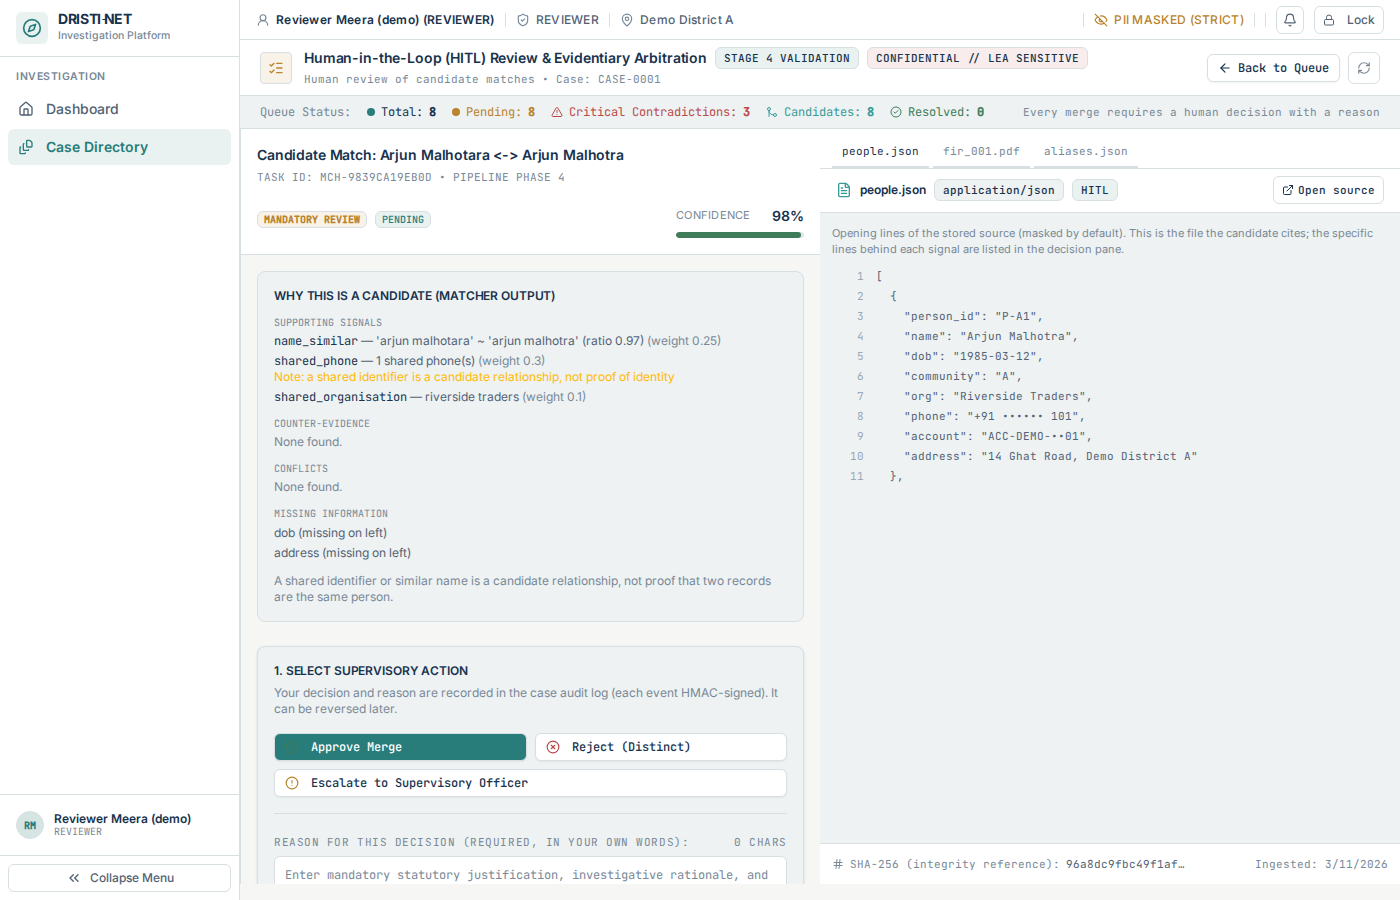
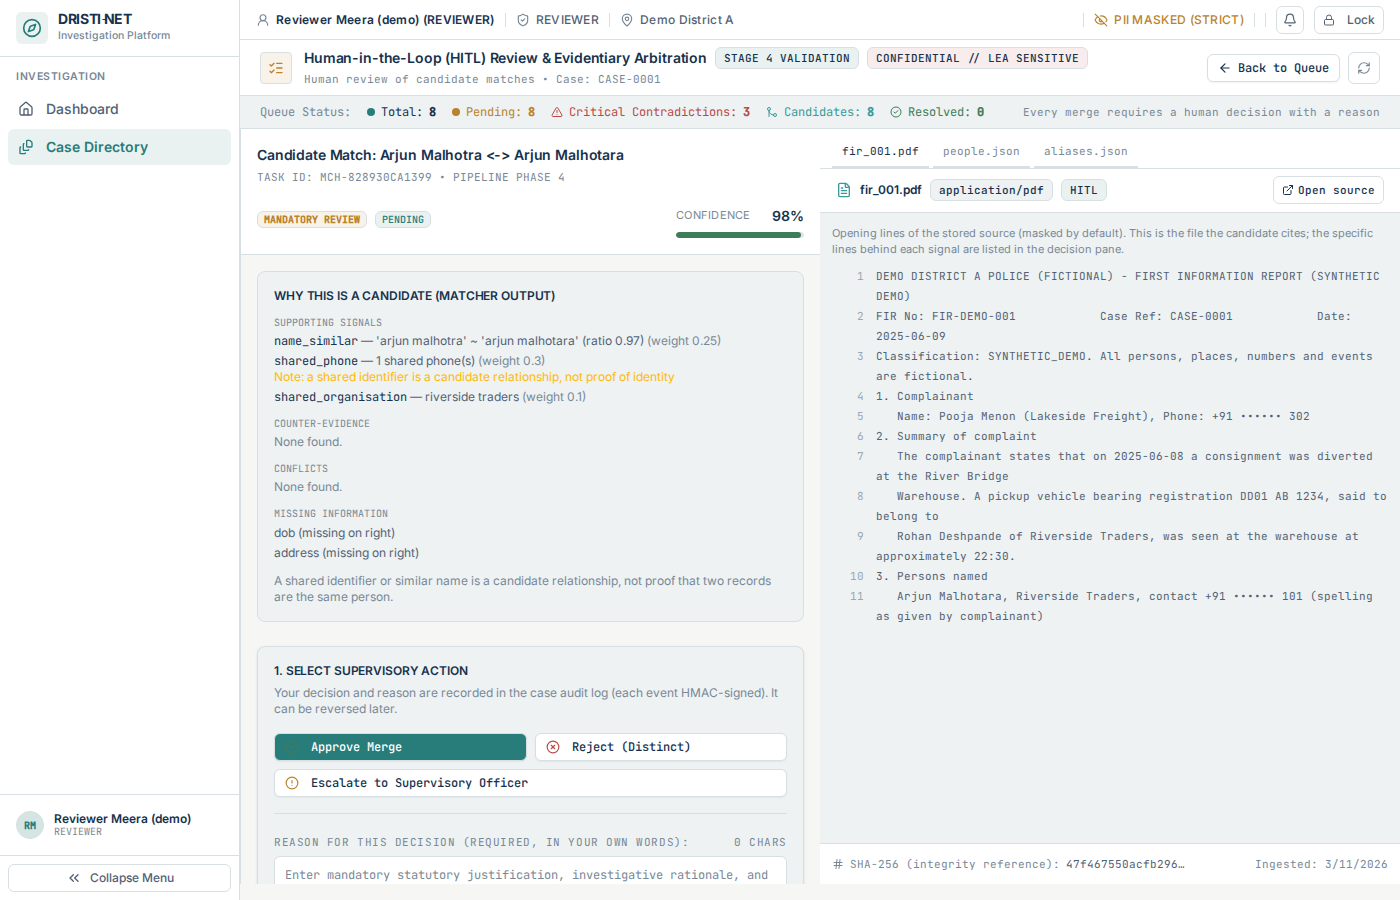
fix: third pass — static analysis, internals leaks, frontend truthfulness, ops guards
- First Python static analysis (ruff, bandit): unused imports/dead code removed;
  a test that asserted nothing now asserts (DEF-073); `assert False` -> raise.
- /health no longer returns the storage path, /ready no longer echoes driver
  errors, job errors no longer carry server tracebacks (DEF-074).
- Compose: ClamAV healthcheck requires PONG, api healthcheck on /ready,
  worker waits for ClamAV, Besu RPC limited to ETH/NET/WEB3; `make clean`
  needs CONFIRM=1, `make test-stack` needs STACK_IS_DISPOSABLE=1 (DEF-075).
- Frontend: upload/login messages report the real outcome (DEF-076);
  fabricated dashboard "Contradictions: 0" and CASE-0001 fallbacks removed,
  analysis page uses fields the API sends (DEF-077); revealed value shown,
  case/provenance load errors visible (DEF-078); timeline shows times as
  recorded and opens the source at the claim's locator (DEF-079).

Verified: make test 126 passed / 5 skipped; typecheck 0; e2e 6/6.

diff --git a/apps/web/src/features/cases/timeline/timeline-event-row.tsx b/apps/web/src/features/cases/timeline/timeline-event-row.tsx
@@ -1,3 +1,5 @@
+import { getClaimById } from "@/services/api/claimsApi";
+import { recordedDateKey, recordedTime } from "@/lib/utils";
 import { useNavigate } from "react-router-dom";
 import { Clock, FileText, Waypoints, Tag } from "lucide-react";
 import { Button } from "@/components/ui/button";
@@ -26,9 +28,14 @@ export function TimelineEventRow({
   const { selectNode } = useGraphStore();
 
   const handleViewSource = async () => {
-    if (event.evidence_id) {
-      await openProvenanceForRecord(event.evidence_id);
-    }
+    if (!event.evidence_id) return;
+    // DEF-079: open at the claim's exact source location (it used to open line 1 of the file).
+    let locator: any = undefined;
+    try {
+      const claim = event.claim_id ? (await getClaimById(event.claim_id)).data : null;
+      locator = claim?.provenance?.[0]?.locator || undefined;
+    } catch { /* fall back to opening the file without a locator */ }
+    await openProvenanceForRecord(event.evidence_id, locator);
   };
 
   const handleViewInGraph = () => {
@@ -66,10 +73,10 @@ export function TimelineEventRow({
             <div className="flex items-center gap-2 flex-wrap">
               <span
                 className="flex items-center gap-1 font-mono text-micro font-semibold text-text-muted bg-surface-2/80 px-2 py-0.5 rounded border border-border-subtle"
-                title={event.time ? new Date(event.time).toLocaleDateString("en-IN") : "Unknown Date"}
+                title={event.time ? `${event.time} (as recorded in the source; no time zone)` : "Unknown Date"}
               >
                 <Clock className="h-3 w-3 text-text-disabled" />
-                {event.time ? new Date(event.time).toLocaleTimeString("en-IN", {hour: "2-digit", minute: "2-digit"}) : "Undated"}
+                {recordedTime(event.time) ?? (event.time ? recordedDateKey(event.time) : "Undated")}
               </span>
               <span className="text-micro font-medium border px-1.5 rounded bg-surface-3">
                 {event.rel_type}
@@ -91,7 +98,7 @@ export function TimelineEventRow({
                 size="sm"
                 className="h-7 px-2.5 text-xs font-semibold gap-1 text-teal-primary border-teal-primary/30 hover:bg-teal-primary/10 shadow-2xs"
                 onClick={handleViewSource}
-                title="View original evidence document with highlighted proof"
+                title="Open the source document at the line this event was extracted from"
               >
                 <FileText className="h-3.5 w-3.5 text-teal-primary" />
                 <span>View Evidence</span>

diff --git a/apps/web/src/features/cases/evidence/case-evidence-view.tsx b/apps/web/src/features/cases/evidence/case-evidence-view.tsx
@@ -27,7 +27,7 @@ export function CaseEvidenceView() {
   } = useEvidenceStore();
 
   const [selectedFile, setSelectedFile] = useState<File | null>(null);
-  const [uploadMsg, setUploadMsg] = useState("");
+  const [uploadMsg, setUploadMsg] = useState<{ text: string; ok: boolean } | null>(null);
 
   const caseId = routeCaseId;
 
@@ -103,19 +103,20 @@ export function CaseEvidenceView() {
                 headers: tok ? { Authorization: `Bearer ${tok}` } : {},
                 body: fd
               });
+              // DEF-076: report what the server actually said. Previously every success was shown in red, a 201 whose
+              // scan result was INFECTED read "Uploaded", and the "quarantine" branch never matched any real 4xx text.
+              let body: any = null;
+              try { body = await res.json(); } catch { /* non-JSON body */ }
               if (!res.ok) {
-                 const text = await res.text();
-                 if (text.includes("quarantine") || text.includes("virus") || text.includes("malware")) {
-                    setUploadMsg("File is in quarantine");
-                 } else {
-                    setUploadMsg("Upload failed");
-                 }
+                 setUploadMsg({ ok: false, text: `Upload rejected (${res.status}): ${typeof body?.detail === "string" ? body.detail : res.statusText}` });
               } else {
-                 setUploadMsg("Uploaded");
+                 const status: string = body?.status || "UNKNOWN";
+                 const blocked = ["INFECTED", "SCAN_FAILED", "SCAN_TIMEOUT", "SCANNER_UNAVAILABLE", "QUARANTINED", "INTEGRITY_MISMATCH", "EXTRACTION_FAILED"].includes(status);
+                 setUploadMsg({ ok: !blocked, text: blocked ? `Stored, but not processed: status ${status}${body?.scan_result ? ` (scan: ${body.scan_result})` : ""}` : `Uploaded: status ${status}` });
                  loadEvidence(caseId, entityScope);
               }
             }}>Upload</Button>
-            {uploadMsg && <span className="text-critical-red font-bold text-xs">{uploadMsg}</span>}
+            {uploadMsg && <span role="status" className={`font-bold text-xs ${uploadMsg.ok ? "text-emerald-400" : "text-critical-red"}`}>{uploadMsg.text}</span>}
           </div>
         </div>
 

diff --git a/apps/web/src/features/cases/case-workspace-page.tsx b/apps/web/src/features/cases/case-workspace-page.tsx
@@ -50,7 +50,7 @@ function CasePlaceholderView({ tabId, caseId, onBackToOverview }: { tabId: strin
 }
 
 export function CaseWorkspacePage() {
-  const {  caseId = "CASE-0001" } = useParams();
+  const {  caseId = "" } = useParams();
   const [searchParams, setSearchParams] = useSearchParams();
   const location = useLocation();
   const navigate = useNavigate();
@@ -67,20 +67,25 @@ export function CaseWorkspacePage() {
 
   const [caseData, setCaseData] = useState<CaseDetail | null>(null);
   const [isLoading, setIsLoading] = useState(false);
+  const [loadError, setLoadError] = useState<string | null>(null);
   const {  caseInfoPanelExpanded, toggleCaseInfoPanel } = useUIStore();
 
   useEffect(() => {
     let isMounted = true;
     async function load() {
       if (!caseId) return;
+      // DEF-078: drop the previous case before loading, and keep the failure reason (a 403 used to leave the old
+      // case's header and data on screen, or show a bare "Failed to load case data").
+      setCaseData(null);
+      setLoadError(null);
       setIsLoading(true);
       try {
         const res = await getCaseDetails(caseId);
         if (isMounted && res.data) {
           setCaseData(res.data);
         }
-      } catch {
-        // Error loading case
+      } catch (e: any) {
+        if (isMounted) setLoadError(e?.message || "error");
       } finally {
         if (isMounted) setIsLoading(false);
       }
@@ -108,7 +113,7 @@ export function CaseWorkspacePage() {
   };
 
   if (isLoading) { return <div className="flex h-screen items-center justify-center">Loading Workspace...</div>; }
-  if (!caseData) { return <div className="p-8 text-center text-text-muted">Failed to load case data.</div>; }
+  if (!caseData) { return <div role="alert" className="p-8 text-center text-text-muted">Could not load case {caseId}{loadError ? `: ${loadError}` : "."}</div>; }
 
   return (
     <>

diff --git a/apps/web/src/features/cases/analysis/case-analysis-page.tsx b/apps/web/src/features/cases/analysis/case-analysis-page.tsx
@@ -94,7 +94,7 @@ export function CaseAnalysisPage() {
                       <span className="text-xs text-text-primary truncate">{n.label}</span>
                     </div>
                     <div className="flex items-center gap-3 text-xs text-text-muted shrink-0">
-                      <span>degree: <strong className="text-text-primary">{n.degree}</strong></span>
+                      <span>communities touched: <strong className="text-text-primary">{Array.isArray(n.touches_communities) ? n.touches_communities.length : (n.touches_communities ?? "—")}</strong></span>
                       <span>betweenness: <strong className="text-text-primary">{(n.betweenness || 0).toFixed(3)}</strong></span>
                     </div>
                   </div>
@@ -117,7 +117,7 @@ export function CaseAnalysisPage() {
                   <div key={idx} className="rounded-md bg-surface-2 border border-border-subtle p-3 space-y-2">
                     <div className="flex items-center justify-between">
                       <span className="text-xs font-semibold text-text-primary">Community {idx + 1}</span>
-                      <span className="text-[10px] text-text-muted">{(comm.members || []).length} members · stability: {(comm.stability ?? 0).toFixed(2)}</span>
+                      <span className="text-[10px] text-text-muted">{comm.size ?? (comm.members || []).length} members · stability: {typeof comm.stability === "number" ? comm.stability.toFixed(2) : "n/a"}</span>
                     </div>
                     <div className="flex flex-wrap gap-1">
                       {(comm.members || []).slice(0, 5).map((m: any) => (

diff --git a/apps/web/src/components/evidence/ProvenanceViewer.tsx b/apps/web/src/components/evidence/ProvenanceViewer.tsx
@@ -5,10 +5,24 @@ import { useProvenanceStore } from "@/stores/provenanceStore";
 import { cn } from "@/lib/utils";
 
 export function ProvenanceViewer() {
-  const { isModalOpen, record, closeModal, revealContext, isRevealing, revealError } = useProvenanceStore();
+  const { isModalOpen, record, closeModal, revealContext, isRevealing, revealError, isLoading, error } = useProvenanceStore();
   const [reason, setReason] = useState("");
 
-  if (!isModalOpen || !record) return null;
+  if (!isModalOpen) return null;
+  // DEF-078: the viewer returned null while loading and on error (e.g. 409 for a quarantined or integrity-mismatched
+  // item), so "Inspect" appeared to do nothing.
+  if (!record) {
+    return (
+      <div data-testid="provenance-viewer" role="dialog" aria-modal="true" className="fixed inset-0 z-50 flex items-center justify-center bg-background/95 backdrop-blur-md">
+        <div className="rounded-lg border border-border-subtle bg-surface-1 p-6 max-w-md text-center space-y-3">
+          {isLoading ? <p className="text-sm text-text-muted">Loading source…</p> : (
+            <p role="alert" className="text-sm text-critical-red">Source not available: {error || "unknown error"}</p>
+          )}
+          <Button variant="secondary" size="sm" onClick={closeModal}>Close</Button>
+        </div>
+      </div>
+    );
+  }
 
   const handleReveal = async () => {
     if (!reason.trim()) return;

diff --git a/apps/web/src/features/cases/timeline/case-timeline.tsx b/apps/web/src/features/cases/timeline/case-timeline.tsx
@@ -1,3 +1,4 @@
+import { recordedDateKey } from "@/lib/utils";
 import { useEffect, useMemo } from "react";
 import { useSearchParams } from "react-router-dom";
 import {
@@ -58,17 +59,13 @@ export function CaseTimeline({ caseId }: CaseTimelineProps) {
     }[] = [];
 
     filteredEvents.forEach((evt) => {
-      const d = new Date(evt.time);
-      const dateKey = isNaN(d.getTime()) ? "UNKNOWN" : d.toISOString().split("T")[0];
-      const displayDate = isNaN(d.getTime())
-        ? "Undated Events"
-        : new Intl.DateTimeFormat("en-IN", {
-            weekday: "short",
-            day: "2-digit",
-            month: "short",
-            year: "numeric",
-            timeZone: "Asia/Kolkata",
-          }).format(d);
+      const key = recordedDateKey(evt.time);
+      const dateKey = key ?? "UNKNOWN";
+      // Format the recorded calendar date itself (UTC used only as a neutral carrier, so no zone shift).
+      const displayDate = key
+        ? new Intl.DateTimeFormat("en-IN", { weekday: "short", day: "2-digit", month: "short", year: "numeric", timeZone: "UTC" })
+            .format(new Date(`${key}T00:00:00Z`))
+        : "Undated Events";
 
       let group = groups.find((g) => g.dateKey === dateKey);
       if (!group) {

diff --git a/apps/web/src/lib/utils.ts b/apps/web/src/lib/utils.ts
@@ -8,3 +8,24 @@ import { twMerge } from "tailwind-merge";
 export function cn(...inputs: ClassValue[]) {
   return twMerge(clsx(inputs));
 }
+
+/**
+ * Timestamps in the evidence are recorded without a time zone (e.g. "2019-03-04 10:00:00"). DEF-079: they were
+ * parsed in the browser's zone and re-formatted as Asia/Kolkata, shifting them for any non-IST viewer. Show them
+ * exactly as recorded instead; only values that carry an explicit zone are converted.
+ */
+const NAIVE_TS = /^(\d{4}-\d{2}-\d{2})(?:[ T](\d{2}:\d{2})(?::\d{2})?)?$/;
+export function recordedDateKey(ts: string | null | undefined): string | null {
+  if (!ts) return null;
+  const m = NAIVE_TS.exec(ts.trim());
+  if (m) return m[1];
+  const d = new Date(ts);
+  return isNaN(d.getTime()) ? null : d.toISOString().slice(0, 10);
+}
+export function recordedTime(ts: string | null | undefined): string | null {
+  if (!ts) return null;
+  const m = NAIVE_TS.exec(ts.trim());
+  if (m) return m[2] ?? null;
+  const d = new Date(ts);
+  return isNaN(d.getTime()) ? null : d.toISOString().slice(11, 16) + " UTC";
+}

diff --git a/apps/web/src/features/command-center/command-center-page.tsx b/apps/web/src/features/command-center/command-center-page.tsx
@@ -1,7 +1,7 @@
 import { useEffect, useState } from "react";
 import { Link } from "react-router-dom";
 import {
-  Compass, FolderOpen, ArrowRight, FileStack, AlertTriangle,
+  Compass, FolderOpen, ArrowRight, FileStack,
   CheckCircle2, Clock, GitMerge, ShieldCheck, Activity,
 } from "lucide-react";
 import { Button } from "@/components/ui/button";
@@ -46,7 +46,7 @@ export function CommandCenterPage() {
     { label: "Total Cases", value: stats.totalCases, icon: FolderOpen, color: "text-electric-blue", bg: "bg-electric-blue/10" },
     { label: "Evidence Items", value: stats.totalEvidence, icon: FileStack, color: "text-emerald-400", bg: "bg-emerald-400/10" },
     { label: "Pending Reviews", value: stats.pendingReviews, icon: Clock, color: "text-amber-400", bg: "bg-amber-400/10" },
-    { label: "Contradictions", value: stats.contradictions, icon: AlertTriangle, color: "text-red-400", bg: "bg-red-400/10" },
+    // DEF-077: a "Contradictions: 0" card was hard-coded (the case list carries no contradiction count); removed.
   ];
 
   return (

diff --git a/apps/web/src/stores/graphStore.ts b/apps/web/src/stores/graphStore.ts
@@ -156,13 +156,18 @@ export const useGraphStore = create<GraphState>((set, get) => ({
       set({ selectedNodeId: null, selectedEntityDetail: null });
       return;
     }
+    // DEF-077: clear the previous entity while the new one loads, and never fall back to a hard-coded case id
+    // (the timeline's "View in graph" can select a node before any graph has loaded).
     set({
       selectedNodeId: nodeId,
       selectedEdgeId: null,
       selectedRelationshipDetail: null,
-    });
+      selectedEntityDetail: null,
+    } as any);
+    const caseId = get().caseId;
+    if (!caseId) return;
     try {
-      const res = await getEntityDetails(nodeId, get().caseId || "CASE-0001");
+      const res = await getEntityDetails(nodeId, caseId);
       set({ selectedEntityDetail: res.data });
     } catch {
       // Keep selectedNodeId

diff --git a/apps/web/src/stores/authStore.ts b/apps/web/src/stores/authStore.ts
@@ -75,7 +75,11 @@ export const useAuthStore = create<AuthState>((set, get) => ({
       console.warn("Backend login failed", e);
       return { 
         success: false, 
-        error: e.response?.data?.detail || "Authentication failed. Server unreachable or invalid credentials." 
+        // DEF-076: ApiError carries .status/.message (no axios `response`), so 401 and 429 throttling both showed a
+        // generic message.
+        error: e?.status === 429 ? "Too many failed attempts. Try again later."
+             : e?.status === 401 ? "Invalid credentials."
+             : (e?.message || "Authentication failed: server unreachable.") 
       };
     }
   },

diff --git a/apps/web/src/stores/auditStore.ts b/apps/web/src/stores/auditStore.ts
@@ -54,8 +54,9 @@ export const useAuditStore = create<AuditState>((set, get) => ({
   isDrawerOpen: false,
 
   loadLogs: async (caseId?: string) => {
-    const cId = caseId || get().caseId || "CASE-0001";
-    set({ isLoading: true, error: null, caseId: cId });
+    const cId = caseId || get().caseId;  // DEF-077: no hard-coded "CASE-0001" fallback
+    if (!cId) { set({ error: "No case selected", isLoading: false }); return; }
+    set({ isLoading: true, error: null, caseId: cId, logs: [] } as any);
     try {
       const res = await listAuditLogs(cId);
       if (res.data) {

diff --git a/apps/web/src/components/graph/drawers/EntityDrawer.tsx b/apps/web/src/components/graph/drawers/EntityDrawer.tsx
@@ -130,7 +130,7 @@ export function EntityDrawer({ onFocusNode }: { onFocusNode?: (nodeId: string) =
                  </div>
                  <PIIField
                     label={entity.kind}
-                    value={entity.label}
+                    value={getRevealedValue(entity.entity_id, "id") || entity.label}  /* DEF-078: was the masked label even after a reveal */
                     maskedValue={entity.label}
                     isMasked={!isRevealed(entity.entity_id, "id")}
                     canRequestReveal={true}
